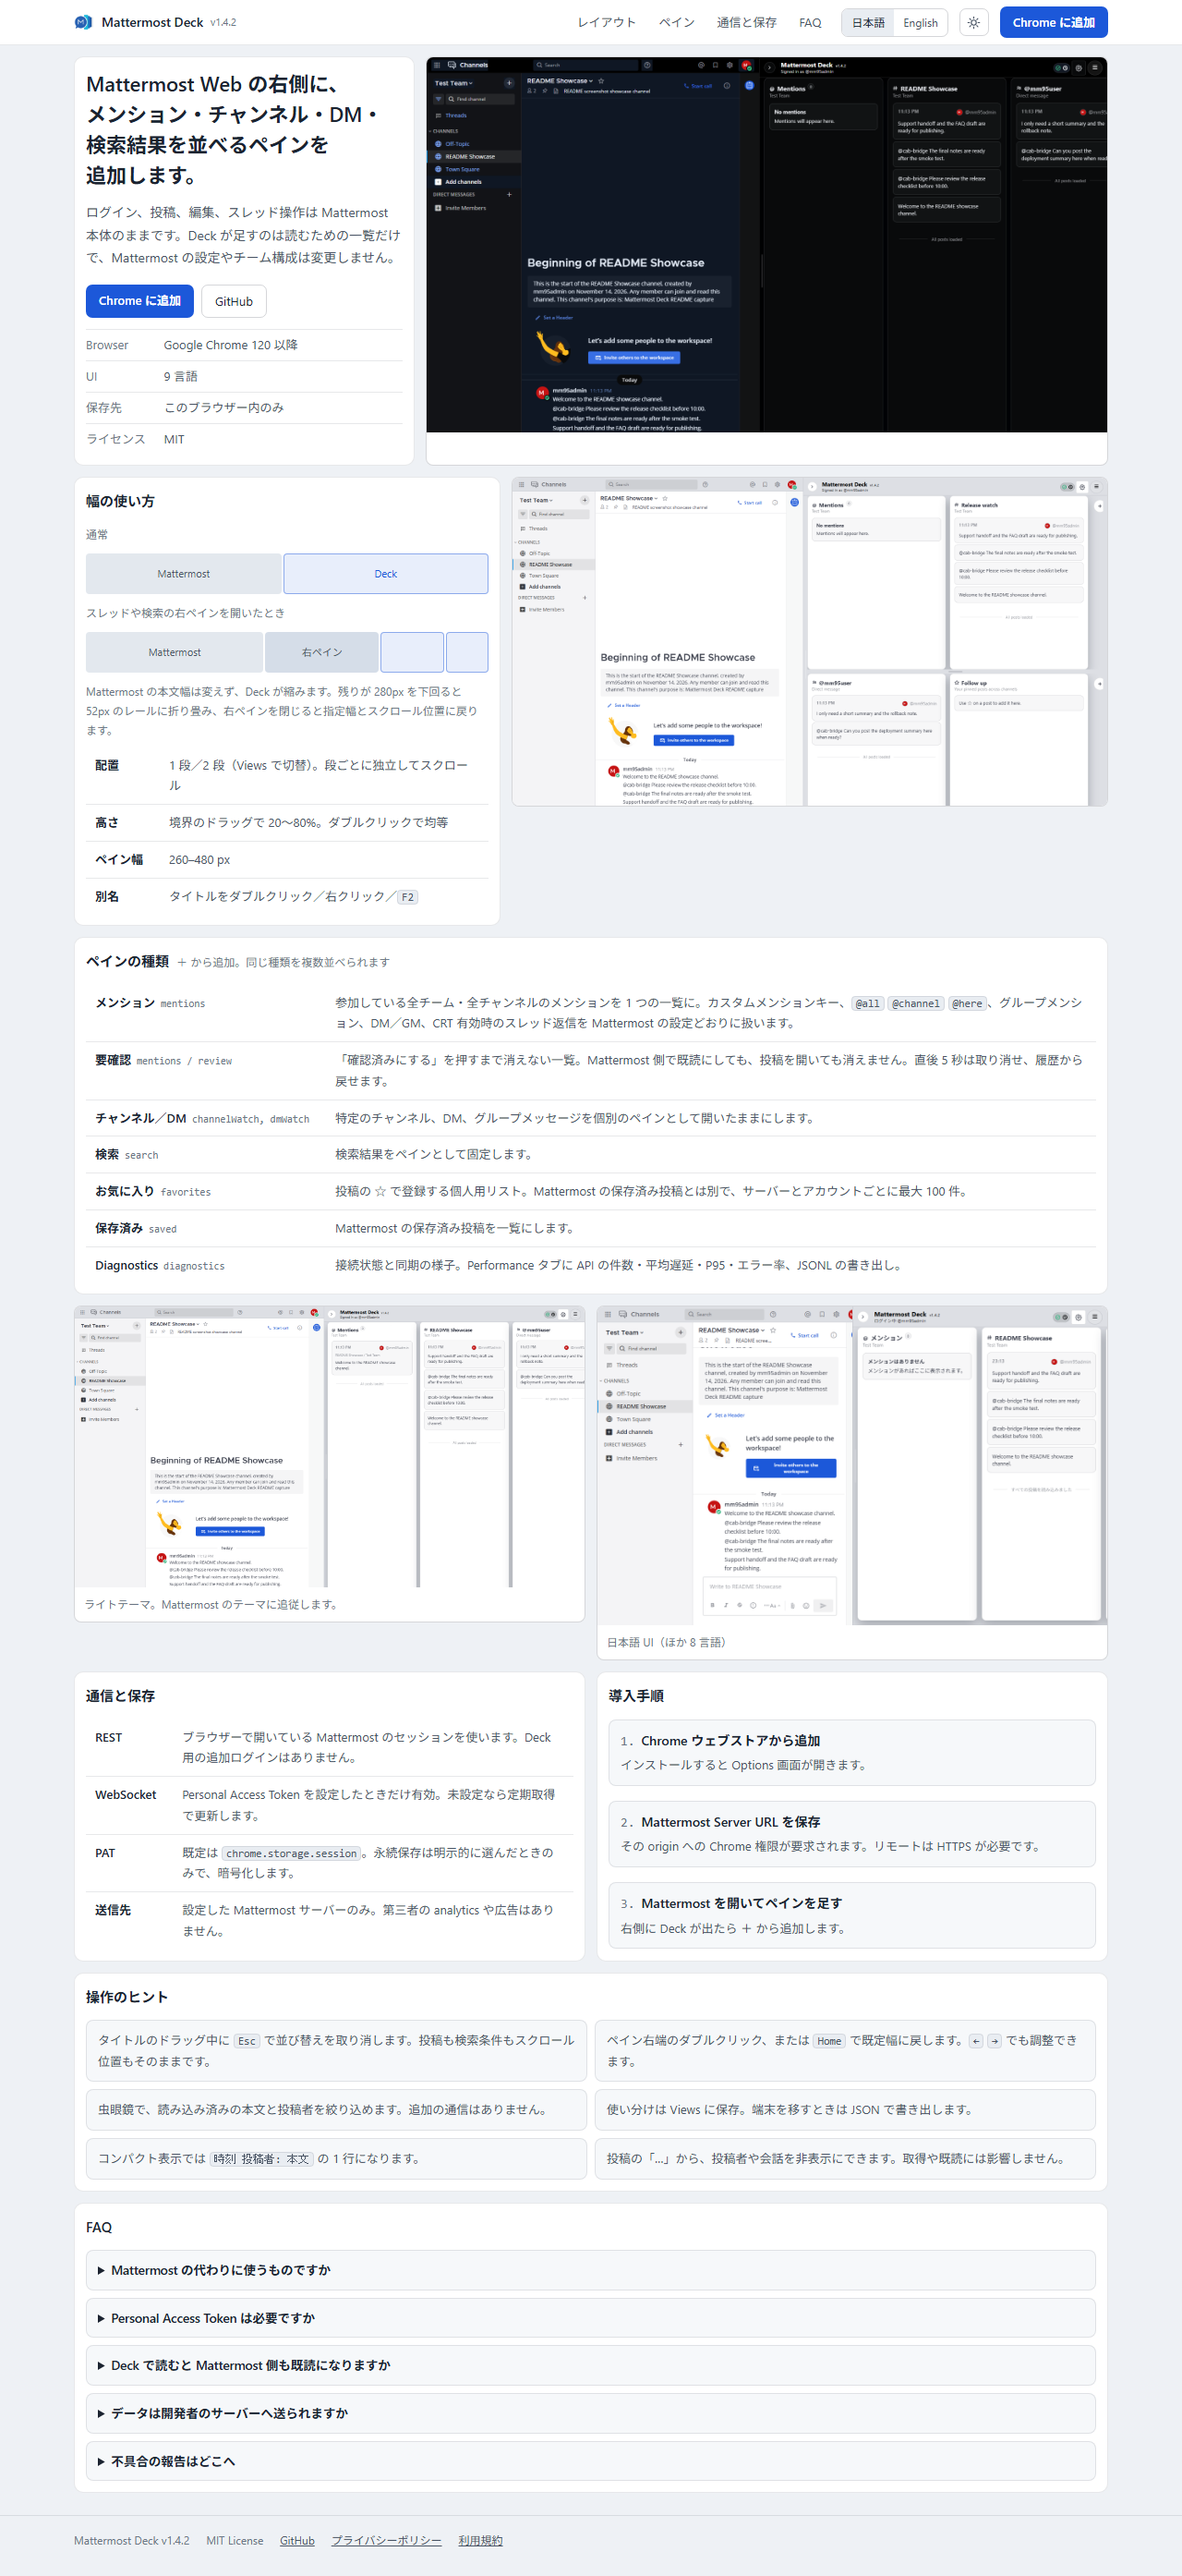
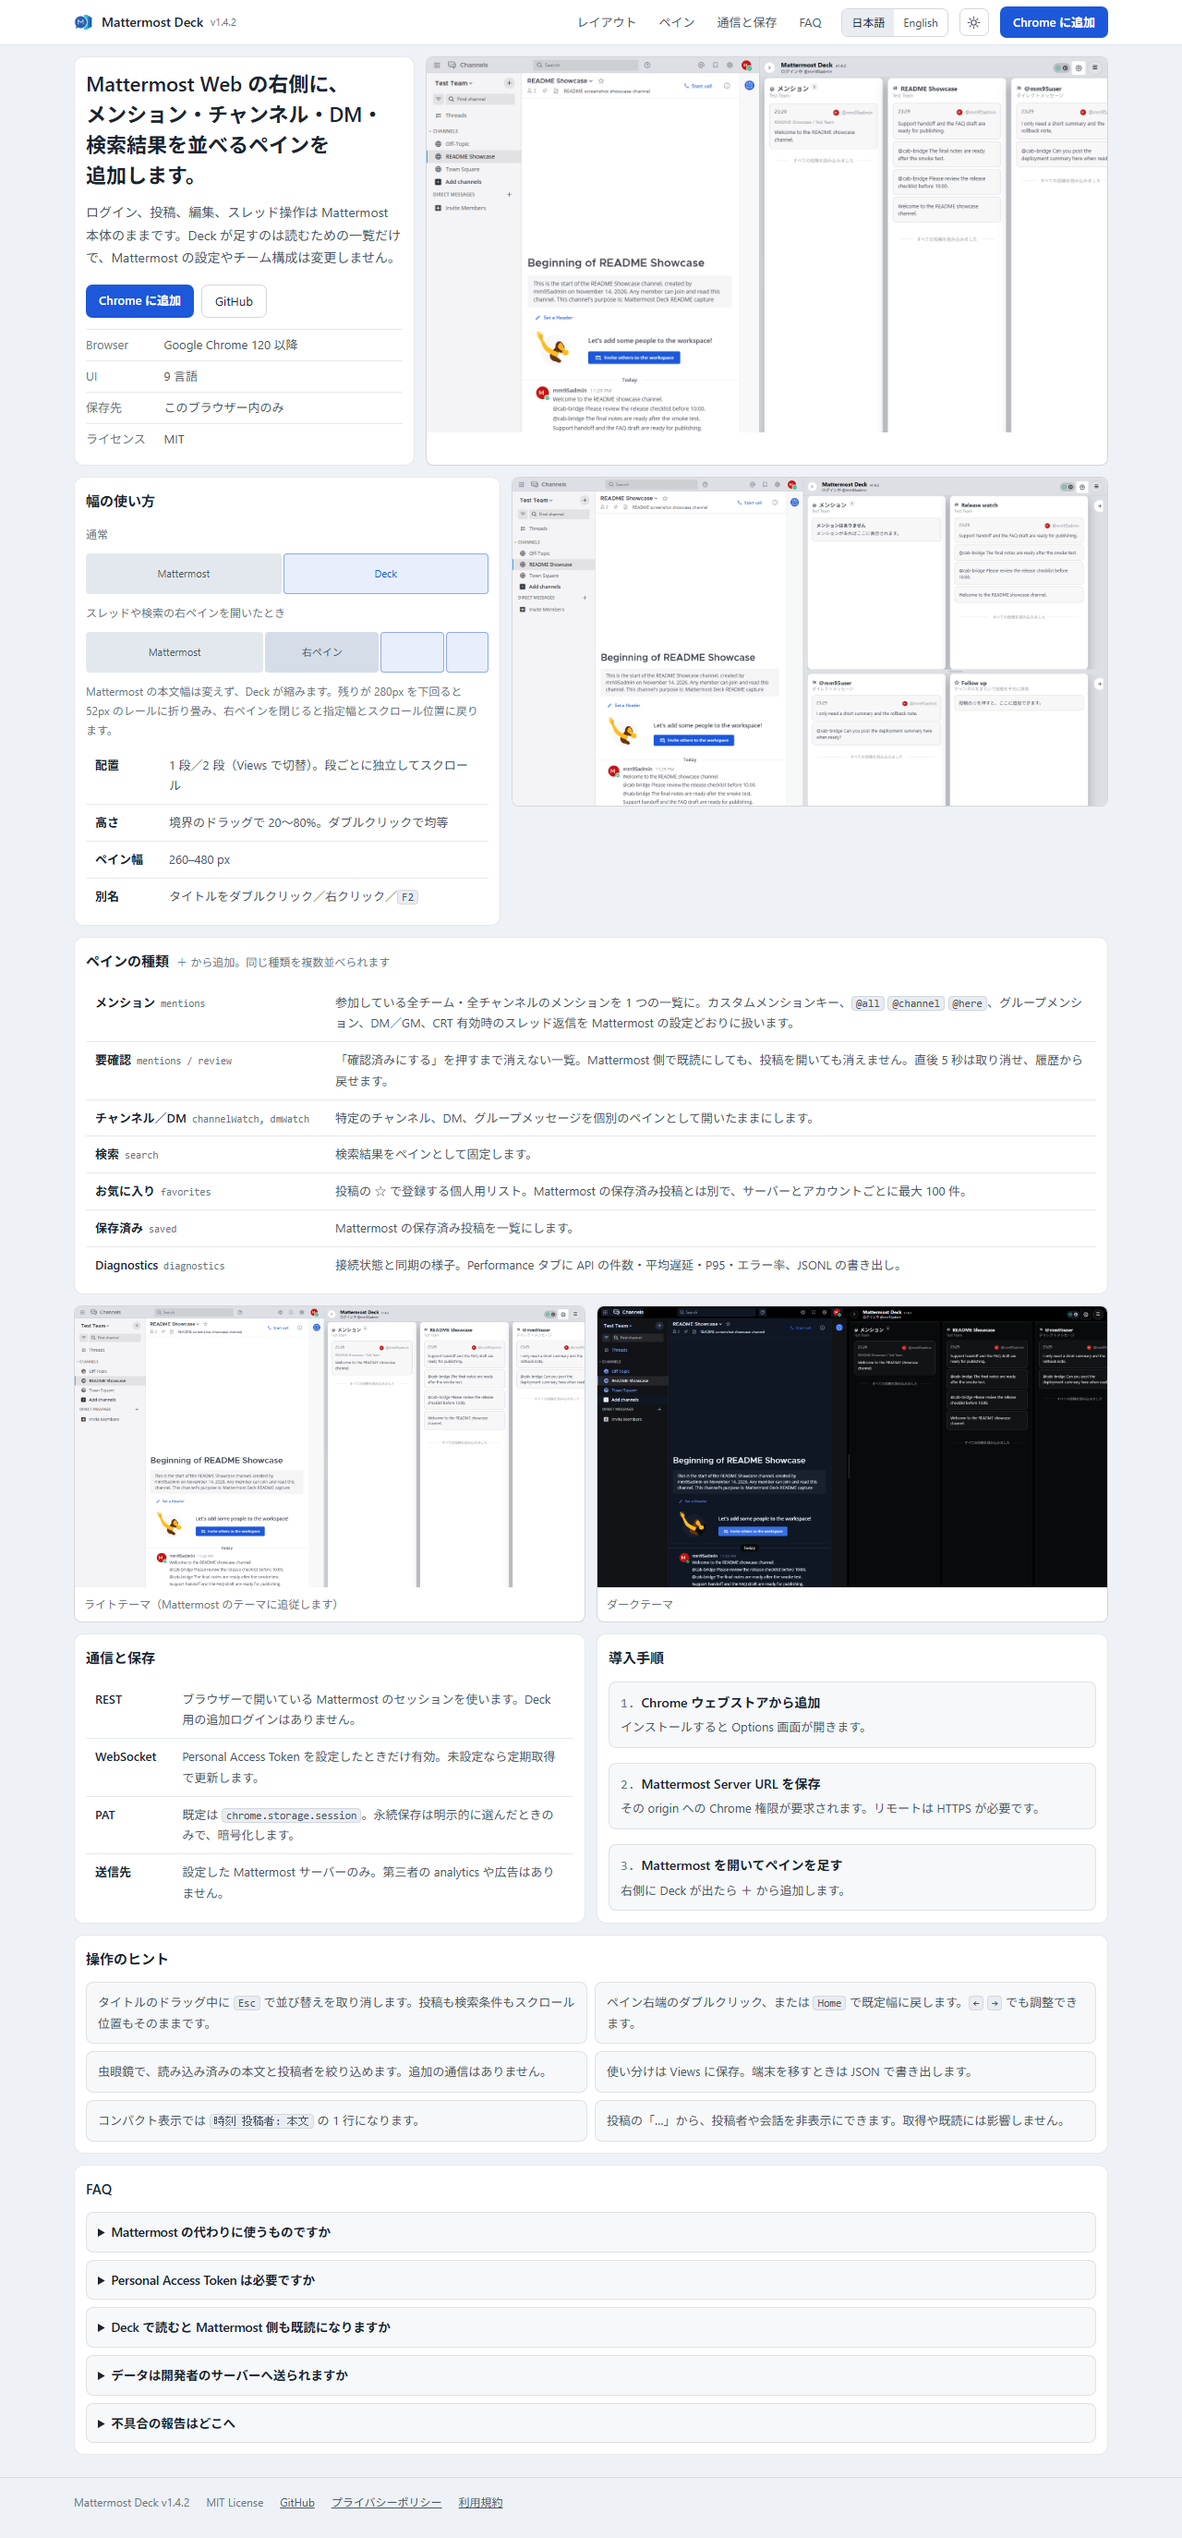
update: deck-tone mock with per-language and per-theme screenshots

diff --git a/mock/deck-tone.html b/mock/deck-tone.html
@@ -87,6 +87,7 @@ main{padding:var(--gap) 0 24px;display:grid;gap:var(--gap)}
 .spec{width:100%;border-collapse:collapse;font-size:13px;margin-top:auto}
 .spec th{width:6.5em;text-align:left;font-weight:400;color:var(--faint);padding:5px 0;border-top:1px solid var(--line);vertical-align:top}
 .spec td{padding:5px 0;border-top:1px solid var(--line);color:var(--soft)}
+:root[data-theme="light"] .t-dark,:root[data-theme="dark"] .t-light{display:none}
 .shot{margin:0;display:block;border:1px solid var(--line2);border-radius:8px;overflow:hidden;background:var(--shotbg)}
 figcaption{font-size:12px;color:var(--faint);margin-top:8px}
 
@@ -173,7 +174,10 @@ footer a{color:var(--soft)}
       </table>
     </div>
     <figure class="shot">
-      <img src="shots/readme-overview-dark.png" width="1720" height="948" alt="Mattermost の右側に Deck を表示した画面（メンション・チャンネル・DM の 3 ペイン）">
+      <img class="t-dark" lang="ja" src="shots/overview-dark-ja.png" width="1720" height="948" loading="lazy" alt="Mattermost の右側に Deck を表示した画面（メンション・チャンネル・DM の 3 ペイン）">
+      <img class="t-dark" lang="en" src="shots/overview-dark-en.png" width="1720" height="948" loading="lazy" alt="Deck displayed beside Mattermost: mentions, channel, and DM panes">
+      <img class="t-light" lang="ja" src="shots/overview-light-ja.png" width="1720" height="948" loading="lazy" alt="Mattermost の右側に Deck を表示した画面（メンション・チャンネル・DM の 3 ペイン）">
+      <img class="t-light" lang="en" src="shots/overview-light-en.png" width="1720" height="948" loading="lazy" alt="Deck displayed beside Mattermost: mentions, channel, and DM panes">
     </figure>
   </section>
 
@@ -198,7 +202,10 @@ footer a{color:var(--soft)}
       </table>
     </div>
     <figure class="shot" style="align-self:start">
-      <img src="shots/two-rows.png" width="1720" height="948" loading="lazy" alt="上下 2 段に並べたペイン">
+      <img class="t-dark" lang="ja" src="shots/two-rows-dark-ja.png" width="1720" height="948" loading="lazy" alt="上下 2 段に並べたペイン">
+      <img class="t-dark" lang="en" src="shots/two-rows-dark-en.png" width="1720" height="948" loading="lazy" alt="Panes arranged in two rows">
+      <img class="t-light" lang="ja" src="shots/two-rows-light-ja.png" width="1720" height="948" loading="lazy" alt="上下 2 段に並べたペイン">
+      <img class="t-light" lang="en" src="shots/two-rows-light-en.png" width="1720" height="948" loading="lazy" alt="Panes arranged in two rows">
     </figure>
   </section>
 
@@ -216,8 +223,8 @@ footer a{color:var(--soft)}
   </section>
 
   <section class="shots">
-    <figure class="shot"><img src="shots/overview.png" width="1720" height="948" loading="lazy" alt="ライトテーマ"><figcaption style="padding:0 10px 8px"><span lang="ja">ライトテーマ。Mattermost のテーマに追従します。</span><span lang="en">Light theme. Deck follows your Mattermost theme.</span></figcaption></figure>
-    <figure class="shot"><img src="shots/locale-ja.png" width="1720" height="948" loading="lazy" alt="日本語 UI"><figcaption style="padding:0 10px 8px"><span lang="ja">日本語 UI（ほか 8 言語）</span><span lang="en">Japanese UI (eight other languages available)</span></figcaption></figure>
+    <figure class="shot"><img lang="ja" src="shots/overview-light-ja.png" width="1720" height="948" loading="lazy" alt="Deck ライトテーマ"><img lang="en" src="shots/overview-light-en.png" width="1720" height="948" loading="lazy" alt="Deck, light theme"><figcaption style="padding:0 10px 8px"><span lang="ja">ライトテーマ（Mattermost のテーマに追従します）</span><span lang="en">Light theme (Deck follows your Mattermost theme)</span></figcaption></figure>
+    <figure class="shot"><img lang="ja" src="shots/overview-dark-ja.png" width="1720" height="948" loading="lazy" alt="Deck ダークテーマ"><img lang="en" src="shots/overview-dark-en.png" width="1720" height="948" loading="lazy" alt="Deck, dark theme"><figcaption style="padding:0 10px 8px"><span lang="ja">ダークテーマ</span><span lang="en">Dark theme</span></figcaption></figure>
   </section>
 
   <section id="data" class="cols c">
